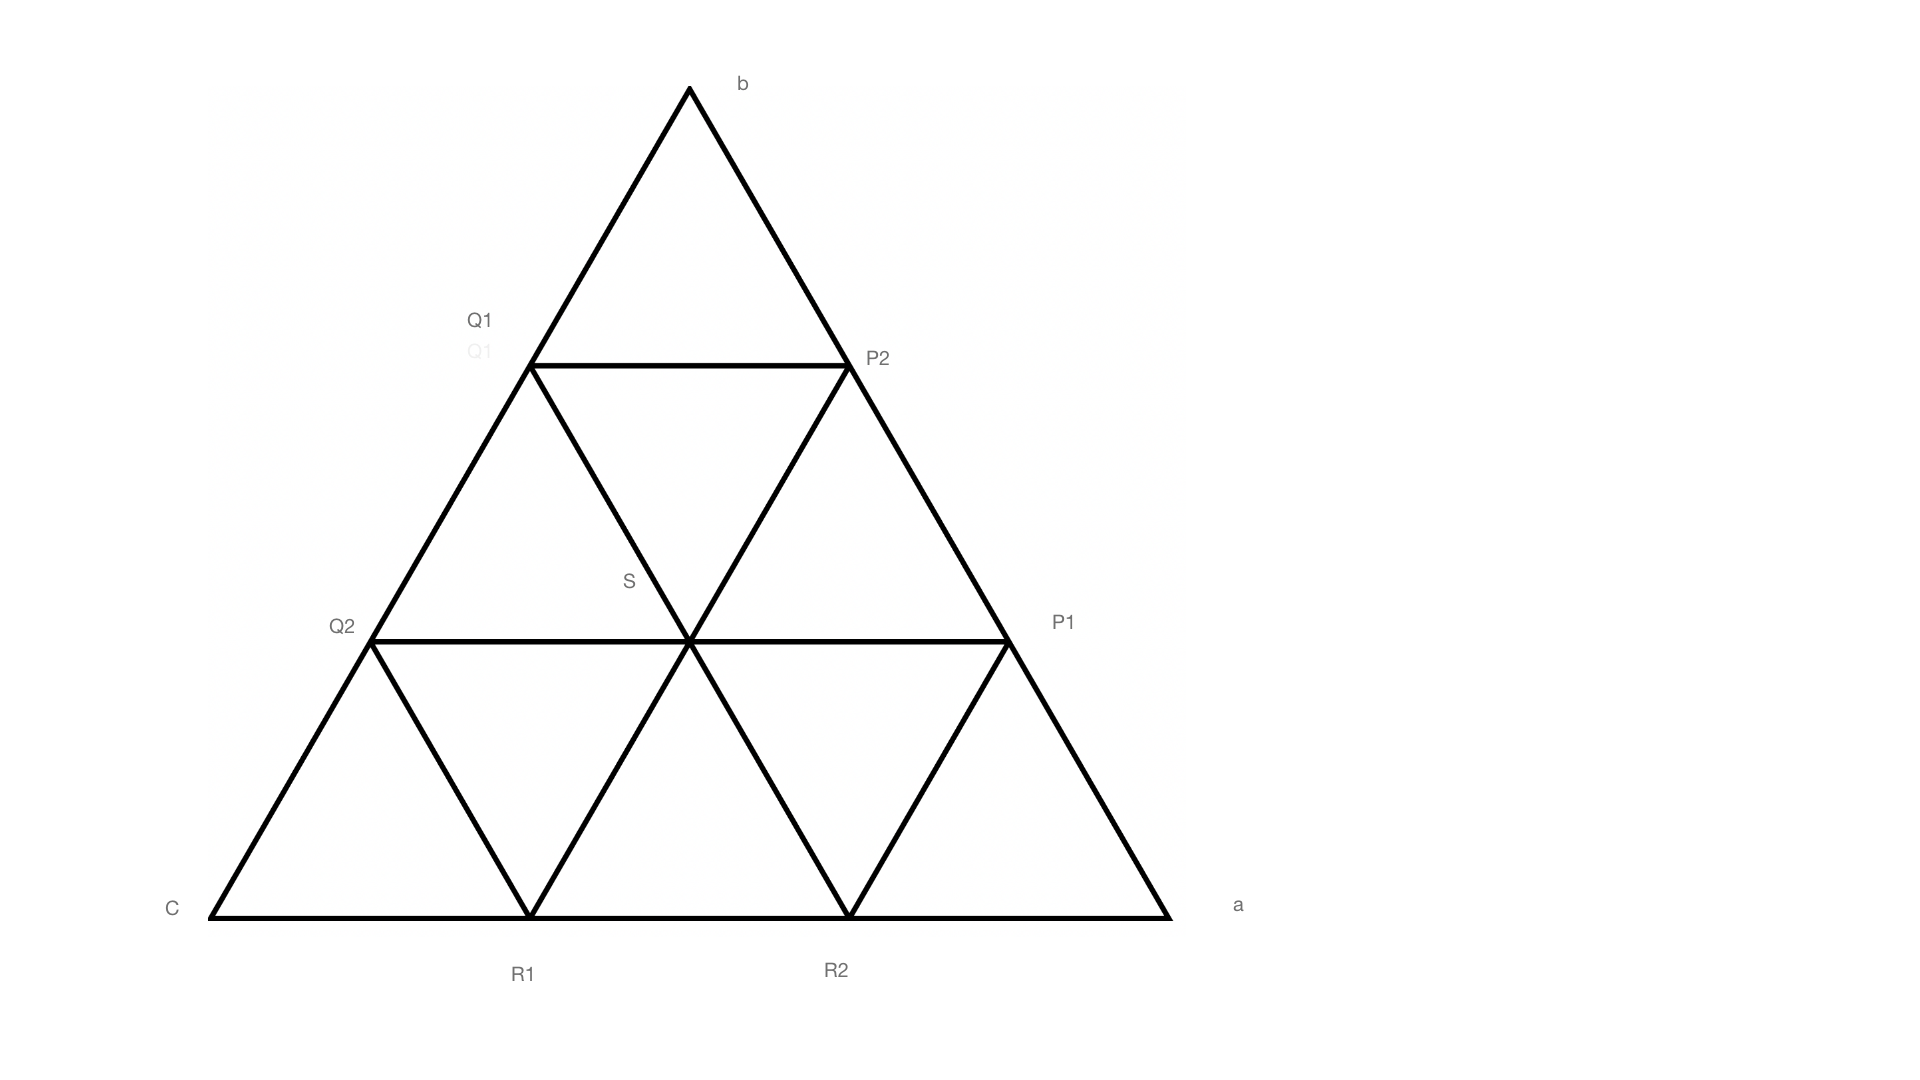
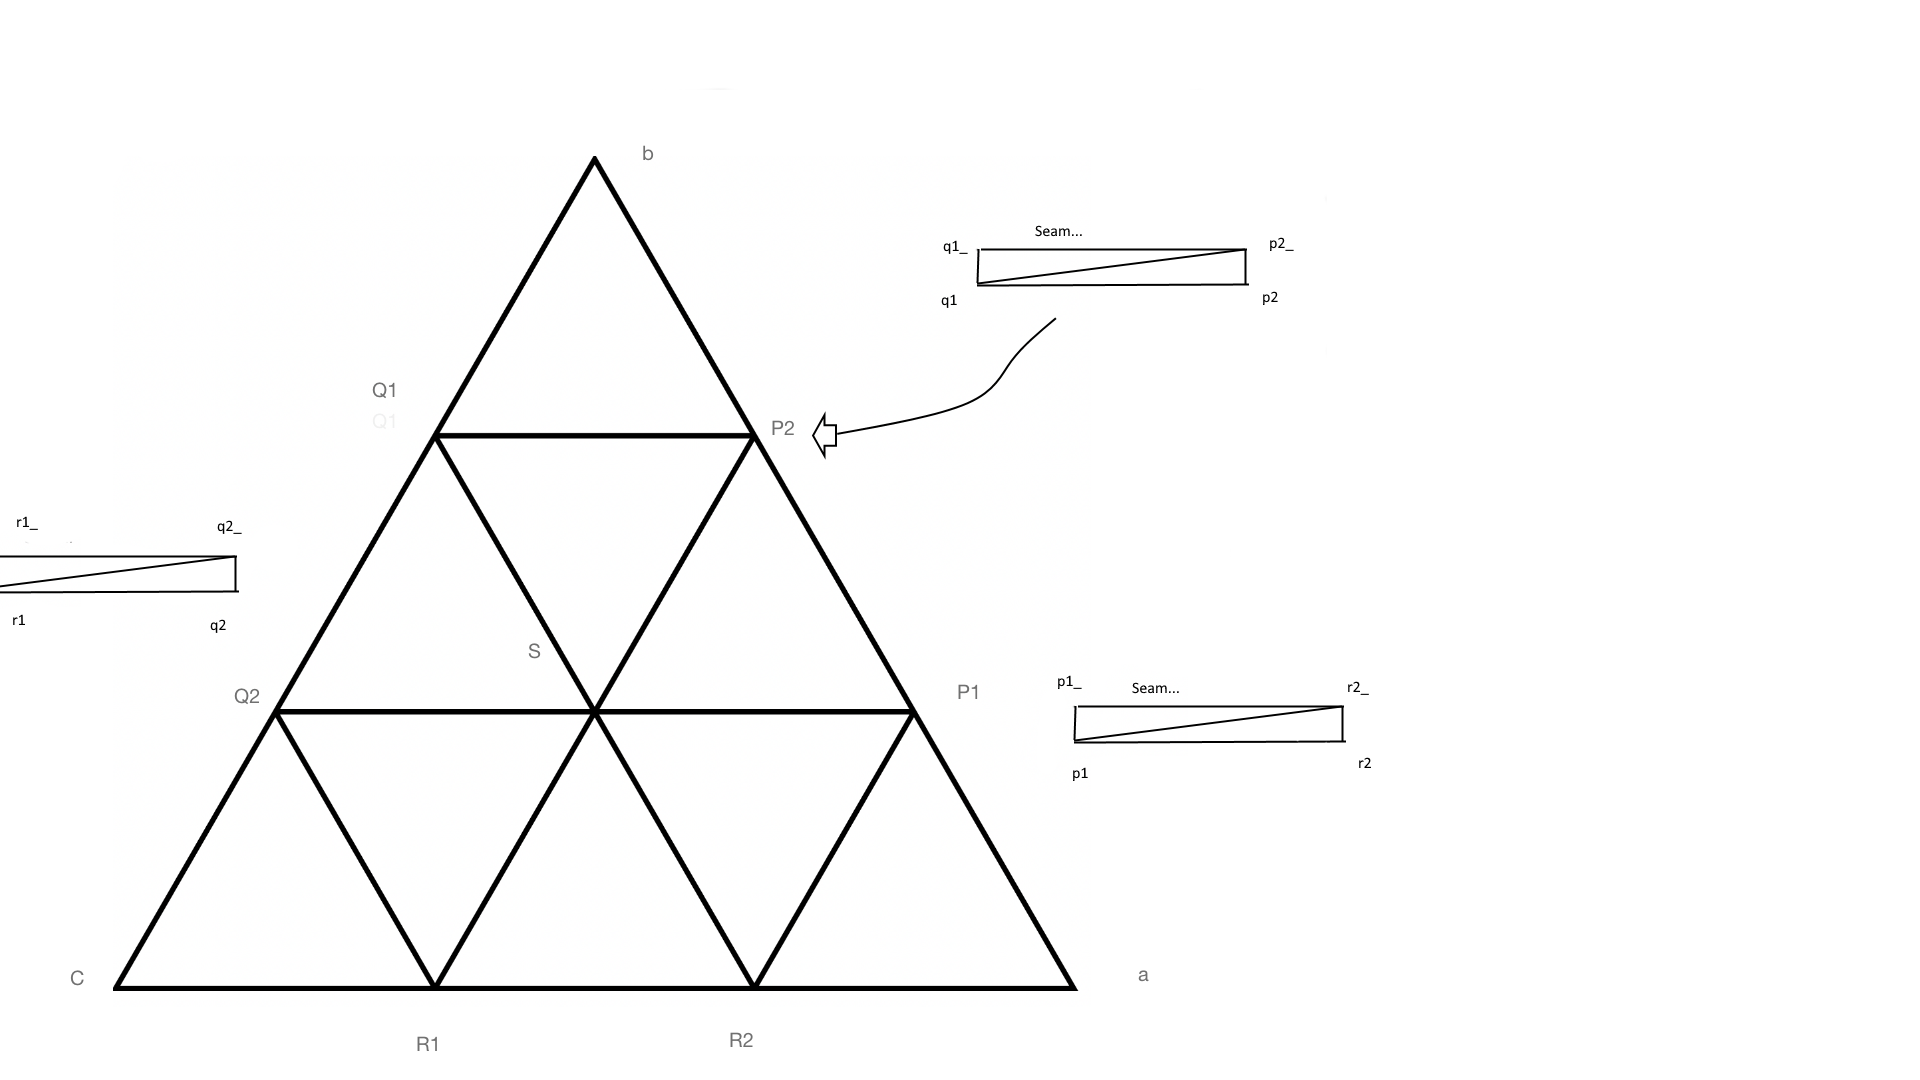
quick bad attempt at seams

diff --git a/lib/model/generate.dart b/lib/model/generate.dart
@@ -12,19 +12,22 @@ final noWarn = [_normalize, out, _triangle, _subdivide];
 // ShapeData generateShapeData() => icosahedron;
 ShapeData generateShapeData() {
   ShapeData shapeData = _icosahedron;
-  shapeData = subdivideFrequency3(shapeData);
-  // shapeData = subdivide(shapeData);
-  // _normalize(shapeData.vertices);
+  shapeData = _subdivideFrequency3(shapeData);
+  shapeData = _subdivide(shapeData);
+  _normalize(shapeData.vertices);
   return shapeData;
 }
 
 /// for each vector coming out from a vertex
 /// go a third of the way along and add that ver (do face the same time)
-ShapeData subdivideFrequency3(ShapeData old) {
+ShapeData _subdivideFrequency3(ShapeData old) {
   final vertices = <Vector3>[...old.vertices];
 
   final darkMeshes = <Mesh>[];
   final lightMeshes = <Mesh>[];
+
+  final darkSeamMeshes = <Mesh>[];
+  final lightSeamMeshes = <Mesh>[];
 
   for (final face in old.meshes.first.faces) {
     // face corners
@@ -61,10 +64,28 @@ ShapeData subdivideFrequency3(ShapeData old) {
     light.add(Face(r1, s, q2));
     light.add(Face(r2, s, r1));
 
+    // copy vertices for the seam
+    final int p1_ = _getOrAdd(vertices[p1], vertices);
+    final int p2_ = _getOrAdd(vertices[p2], vertices);
+    final int q1_ = _getOrAdd(vertices[q1], vertices);
+    final int q2_ = _getOrAdd(vertices[q2], vertices);
+    final int r1_ = _getOrAdd(vertices[r1], vertices);
+    final int r2_ = _getOrAdd(vertices[r2], vertices);
+
+    final lightSeam = <Face>[];
+    lightSeamMeshes.add(Mesh(faces: lightSeam, dark: false));
+
+    lightSeam.add(Face(r2, r2_, p1));
+    lightSeam.add(Face(r2_, p1_, p1));
+    lightSeam.add(Face(p2, p2_, q1));
+    lightSeam.add(Face(p2_, q1_, q1));
+    lightSeam.add(Face(r1, q2, q2_));
+    lightSeam.add(Face(r1, q2_, r1_));
+
     final dark = <Face>[];
     darkMeshes.add(Mesh(faces: dark, dark: true));
 
-    // TODO smooth corners of the patch (the round bit at the end of the seam
+    // copy vertices for the dark pentagon
     p1 = _getOrAdd(vertices[p1], vertices);
     p2 = _getOrAdd(vertices[p2], vertices);
     q1 = _getOrAdd(vertices[q1], vertices);
@@ -77,7 +98,10 @@ ShapeData subdivideFrequency3(ShapeData old) {
     dark.add(Face(face.b, q1, p2));
     dark.add(Face(face.c, r1, q2));
 
-    // later, putting in the seam in a straight line is easy (sacrifice corner?)
+    final darkSeam = <Face>[];
+    darkSeamMeshes.add(Mesh(faces: darkSeam, dark: true));
+
+    // TODO smooth corners of the patch (the round bit at the end of the seam
   }
 
   double scale = 0.9;
@@ -125,8 +149,12 @@ ShapeData subdivideFrequency3(ShapeData old) {
     }
   }
 
-  return ShapeData(
-      vertices: vertices, meshes: <Mesh>[...darkMeshes, ...lightMeshes]);
+  return ShapeData(vertices: vertices, meshes: <Mesh>[
+    ...darkMeshes,
+    ...lightMeshes,
+    ...lightSeamMeshes,
+    ...darkSeamMeshes
+  ]);
 }
 
 /// add vector and return it's index
